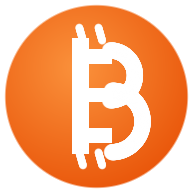
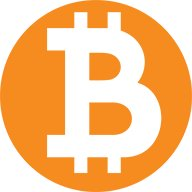
Add files via upload

diff --git a/index.html b/index.html
@@ -89,7 +89,7 @@
 <div id="app">
   <div id="header">
     <div style="display:flex;align-items:center;gap:10px">
-      <div class="logo">₿</div>
+      <img src="./icon-96.png" style="width:34px;height:34px;border-radius:50%;box-shadow:0 0 12px rgba(249,115,22,.3)" alt="SatsFlow"/>
       <div>
         <div style="font-size:17px;font-weight:800;line-height:1.1">SatsFlow</div>
         <div style="font-size:10px;color:var(--text3)">Bitcoin Tracker</div>
